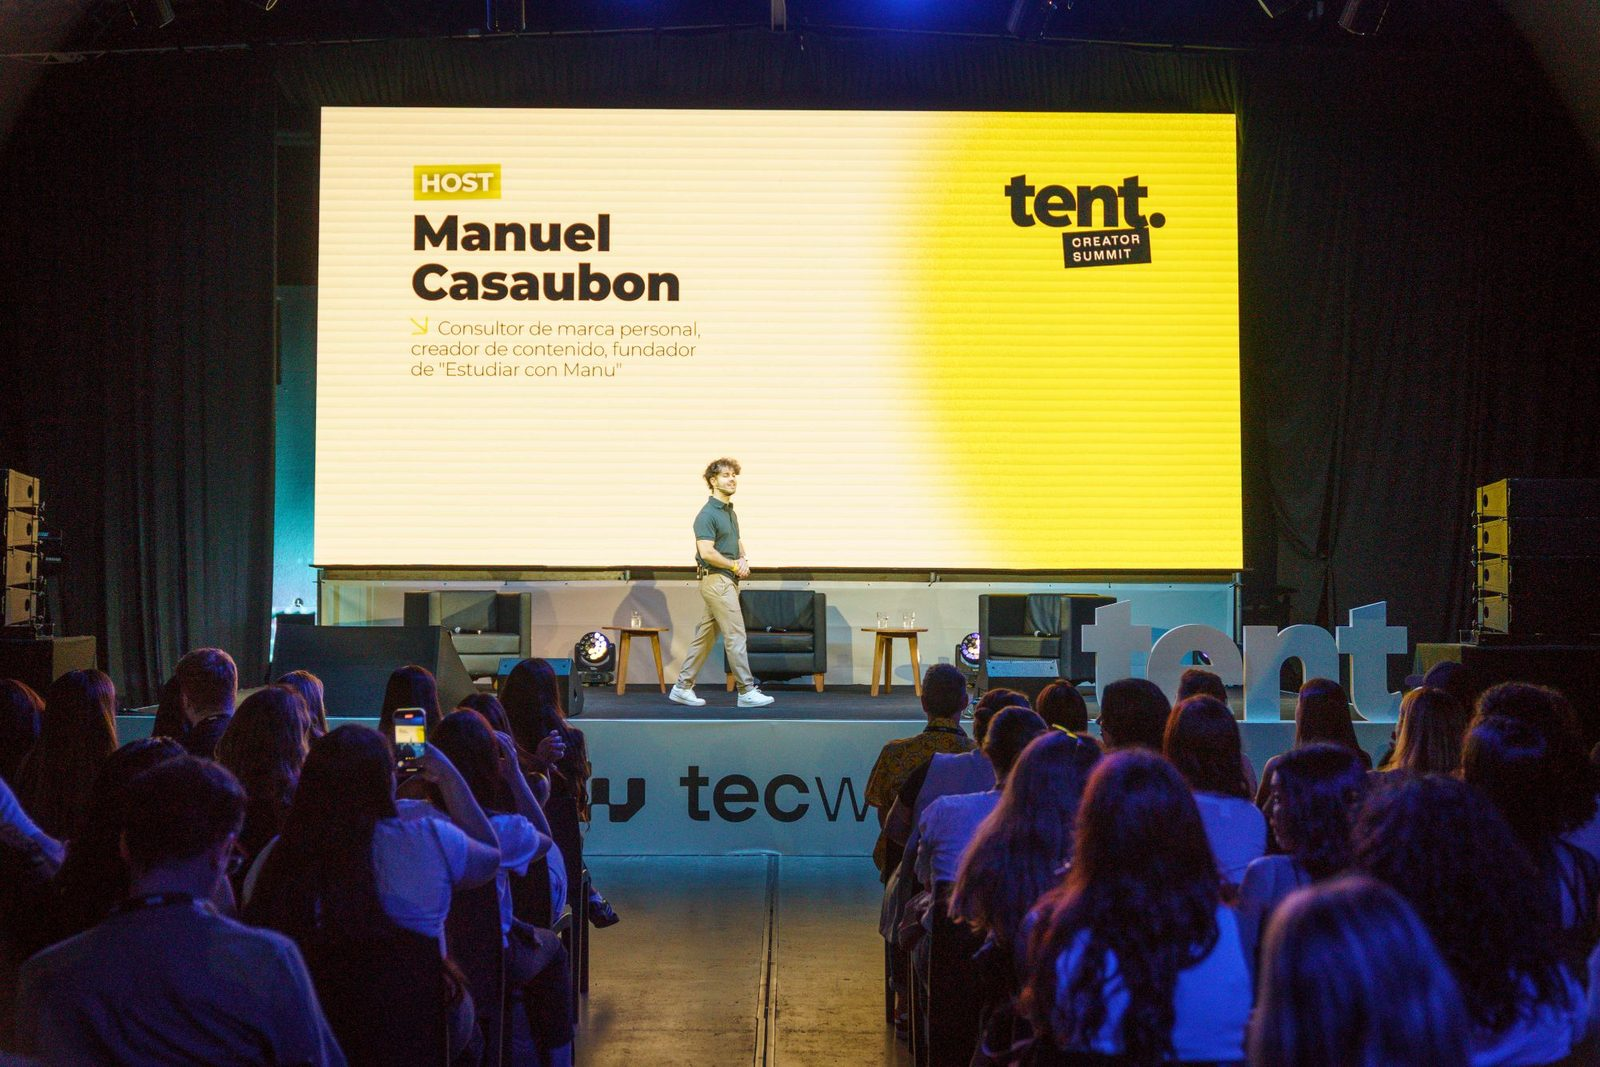
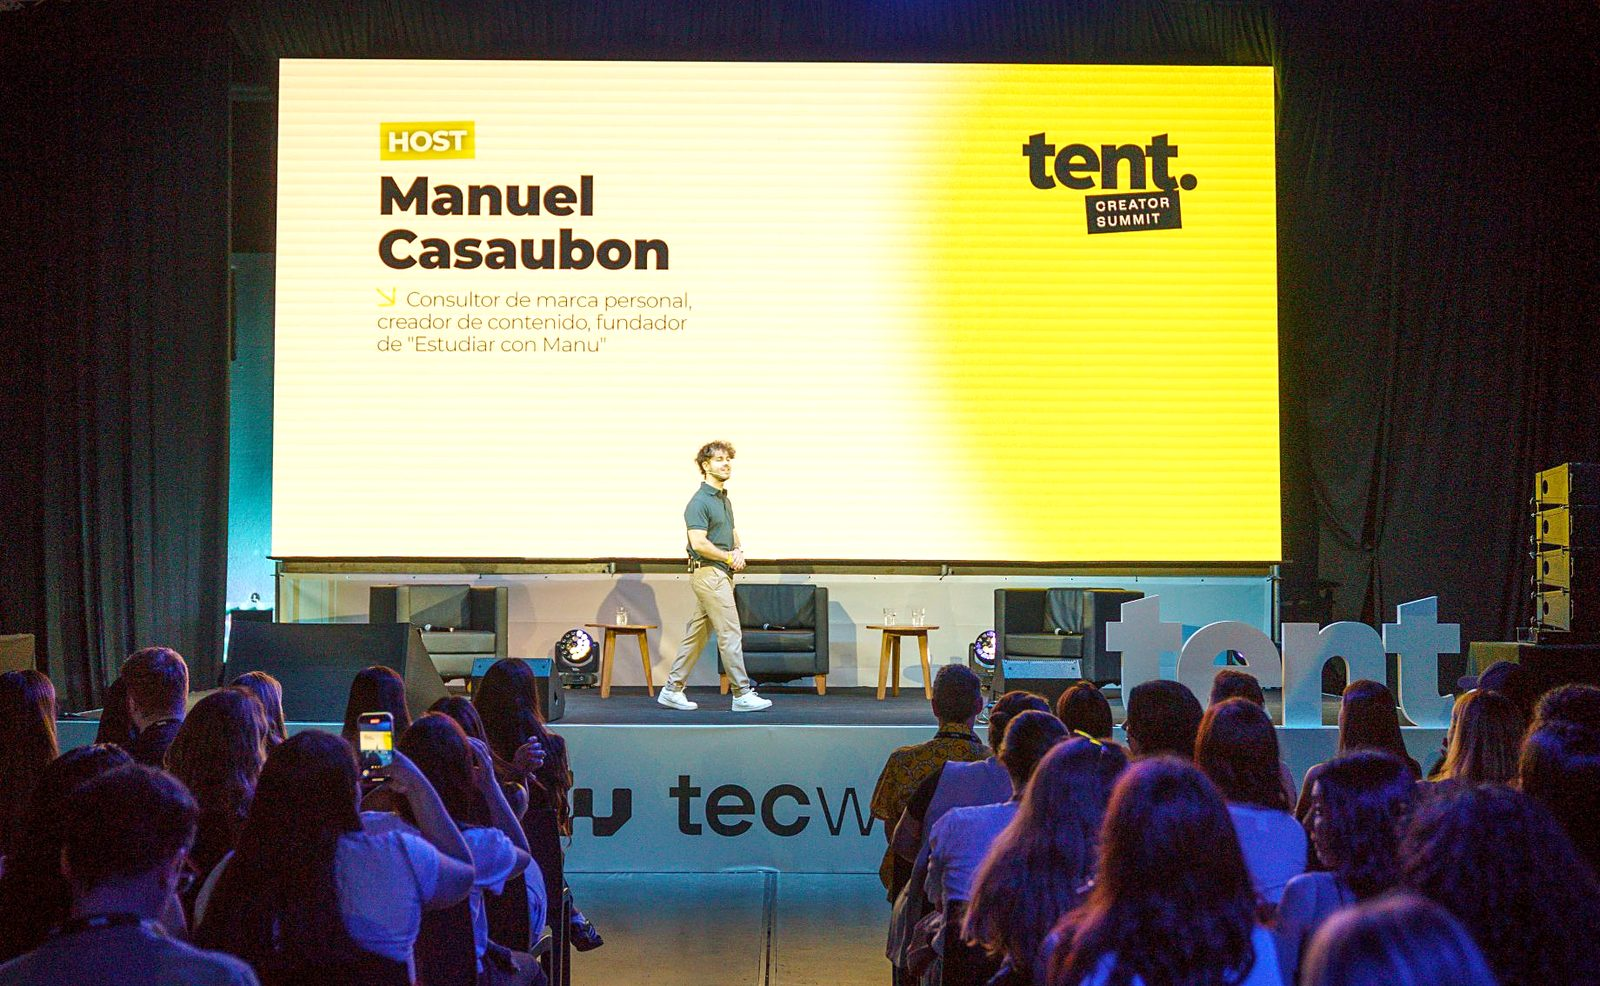
Landing /evento: comentarios de Manu en el boceto
Encabezado y bajada en EB Garamond ("Manuel Casaubon", «a vos» en rojo), texto de qué te falta,
botón de reserva extra, checks y puntos rojos en para quién es, bio y cifras nuevas
(+89.000 IG, 200.000 TikTok, 130.000 YouTube; speaker, conferencista y capacitador),
«Quedan solo 30 lugares» con el 30 tachado y los que quedan, fotos recortadas y con más luz,
WhatsApp e Instagram obligatorios (también en /api/lead) y permiso sin «me puedo dar de baja».

Claude-Session: https://claude.ai/code/session_017CyQKHWzJ9P58ggEyvvFBg

diff --git a/src/components/landing/landing.module.css b/src/components/landing/landing.module.css
@@ -25,13 +25,15 @@
 .crema a:focus-visible, .crema button:focus-visible, .crema summary:focus-visible { outline-color: var(--oscuro); }
 
 .bajada { font-family: var(--serif); font-size: clamp(1.3rem, 3.4vw, 1.7rem); line-height: 1.3; color: var(--mostaza); }
-.marca { font-weight: 800; letter-spacing: -.03em; font-size: 1rem; display: flex; justify-content: space-between; gap: 4px 16px; flex-wrap: wrap; color: var(--gris-o); }
-.marca b { color: var(--crema); font-weight: 800; }
+/* Encabezado: nombre y formato centrados, en EB Garamond (pedido de Manu, 6/11). */
+.marca { font-family: var(--serif); font-weight: 400; font-size: clamp(1.05rem, 3vw, 1.2rem); line-height: 1.25; display: grid; justify-items: center; text-align: center; gap: 2px; color: var(--gris-o); }
+.marca b { color: var(--crema); font-weight: 500; font-size: clamp(1.35rem, 4vw, 1.6rem); letter-spacing: .01em; }
 
 .hero { padding-block-start: clamp(28px, 5vw, 48px); }
 .hero > div { display: grid; gap: clamp(24px, 5vw, 44px); }
-.promesa { font-weight: 800; letter-spacing: -.04em; line-height: 1.1; font-size: clamp(1.4rem, 4.4vw, 2.3rem); color: var(--mostaza); max-width: 22em; text-wrap: balance; margin-top: clamp(14px, 3vw, 24px) !important; }
-.resumen { max-width: 38em; color: var(--gris-o); }
+/* Bajada en EB Garamond blanca, con «a vos» en rojo (pedido de Manu, 6/11). */
+.promesa { font-family: var(--serif); font-weight: 500; letter-spacing: -.01em; line-height: 1.15; font-size: clamp(1.6rem, 5.2vw, 2.6rem); color: var(--crema); max-width: 22em; text-wrap: balance; margin-top: clamp(14px, 3vw, 24px) !important; }
+.resumen { max-width: 34em; color: var(--gris-o); font-family: var(--serif); font-size: clamp(1.15rem, 3.4vw, 1.35rem); line-height: 1.4; }
 /* Título, bajada y resumen centrados (feedback de Manu, 6/11). */
 .centro { text-align: center; justify-self: center; margin-inline: auto; }
 .centro .promesa { margin-inline: auto; }
@@ -105,9 +107,10 @@
 
 .dos { display: grid; grid-template-columns: repeat(2, minmax(0, 1fr)); gap: clamp(28px, 5vw, 56px); margin-top: clamp(24px, 4vw, 36px); }
 .lista { margin: 0; padding: 0; list-style: none; display: grid; gap: 10px; }
-.lista li { padding-left: 1.1em; position: relative; }
-.lista li::before { content: ""; position: absolute; left: 0; top: .62em; width: .45em; height: .45em; background: var(--rojo); }
-.no li::before { background: var(--linea-c); outline: 1px solid var(--gris-c); }
+/* Checks en "Es para vos" y puntos rojos en "No es para vos" (pedido de Manu, 6/11). */
+.lista li { padding-left: 1.7em; position: relative; }
+.lista li::before { content: "✓"; position: absolute; left: 0; top: 0; font-weight: 900; color: var(--rojo); font-size: 1.1em; line-height: 1.4; }
+.no li::before { content: ""; top: .6em; left: .3em; width: .5em; height: .5em; border-radius: 50%; background: var(--rojo); }
 
 .casos { display: grid; grid-template-columns: repeat(3, minmax(0, 1fr)); gap: clamp(20px, 4vw, 36px); margin-top: clamp(24px, 4vw, 36px); }
 .caso { min-width: 0; border-top: 2px solid var(--oscuro); padding-top: 14px; }
@@ -177,8 +180,8 @@
   border-radius: 50%; display: inline-grid; place-items: center; flex: none; transform: rotate(-6deg); }
 .final .paso { justify-content: flex-start; }
 
-.subrayado { position: relative; display: inline-block; white-space: nowrap; color: var(--crema); }
-.subrayado svg { position: absolute; left: -2%; right: -2%; bottom: -.32em; width: 104%; height: .42em; color: var(--rojo); overflow: visible; }
+.subrayado { position: relative; display: inline-block; white-space: nowrap; color: var(--rojo); }
+.subrayado svg { position: absolute; left: -2%; right: -2%; bottom: -.32em; width: 104%; height: .42em; color: var(--mostaza); overflow: visible; }
 @media (prefers-reduced-motion: no-preference) {
   .subrayado path { stroke-dasharray: 260; stroke-dashoffset: 260; animation: trazo .9s .4s ease-out forwards; }
 }
@@ -194,3 +197,11 @@
 .logo { display: inline-flex; align-items: center; height: 40px; flex: none; }
 .logo img { height: 100%; width: auto; max-width: 140px; object-fit: contain; filter: grayscale(1) brightness(1.6); opacity: .75; }
 .logoFalta { display: inline-grid; place-items: center; height: 36px; padding: 0 18px; border: 1.5px dashed var(--linea-o); border-radius: 4px; color: var(--gris-o); font-size: .8rem; font-weight: 600; white-space: nowrap; }
+
+/* Botón extra de reserva en el medio de la página (lleva al formulario y de ahí a Mercado Pago). */
+.ctaMedio { display: flex; justify-content: center; margin-top: clamp(24px, 4vw, 36px); }
+.ctaMedio .boton { min-width: min(100%, 320px); }
+
+/* "Quedan solo 30 lugares": con ventas, el 30 tachado y al lado los que quedan (número real de la base). */
+.tachado { text-decoration: line-through; text-decoration-thickness: .12em; color: var(--gris-o); }
+.restan { color: var(--crema); background: var(--rojo); padding: 0 .3em; border-radius: 3px; }

diff --git a/src/components/landing/Landing.tsx b/src/components/landing/Landing.tsx
@@ -31,7 +31,9 @@ function FotoReal({ foto, que, vertical }: { foto: Foto; que: string; vertical?:
 
 export default function Landing({ cupo, precioArs, agotado }: Props) {
   // Siempre el número real (reglas de comunicación). Sin dato de la base, se dice el total.
-  const quedan = cupo ? Math.max(0, cupo.left_public) : null;
+  // CUPO_BOCETO: solo para la vista previa local (simula lugares vendidos); en producción no está definida.
+  const simulado = process.env.CUPO_BOCETO ? Number(process.env.CUPO_BOCETO) : null;
+  const quedan = cupo ? Math.max(0, cupo.left_public) : simulado;
   const lugares = agotado
     ? "Se agotaron los lugares."
     : quedan !== null && quedan < LUGARES_PUBLICOS
@@ -42,7 +44,7 @@ export default function Landing({ cupo, precioArs, agotado }: Props) {
   return (
     <main className={s.raiz}>
       <section className={`${s.banda} ${s.hero}`} id="inicio-evento"><div>
-        <p className={s.marca}><b>Manu Casaubon</b><span>Clase en vivo presencial en Buenos Aires</span></p>
+        <p className={s.marca}><b>Manuel Casaubon</b><span>Clase en vivo presencial en Buenos Aires</span></p>
         <div className={s.centro}>
           <h1>Cómo destacar con tu marca personal en 2027</h1>
           <p className={s.promesa}>De que nadie te conozca a que te llamen <Subrayado>a vos</Subrayado>.</p>
@@ -63,14 +65,23 @@ export default function Landing({ cupo, precioArs, agotado }: Props) {
             </a>
           </div>
         </div>
-        <p className={s.lugares}>{lugares}</p>
+        <p className={s.lugares}>
+          {agotado ? "Se agotaron los lugares." : quedan !== null && quedan < LUGARES_PUBLICOS
+            ? <>Quedan solo <s className={s.tachado}>{LUGARES_PUBLICOS}</s> <span className={s.restan}>{quedan}</span> lugares.</>
+            : <>Quedan solo {LUGARES_PUBLICOS} lugares.</>}
+        </p>
         <Marcas />
       </div></section>
 
       <section className={`${s.banda} ${s.crema}`}><div>
         <p className={s.frase}>Tenés mucho conocimiento y experiencia, <em>pero pocas personas saben lo que sabés.</em></p>
-        <p className={s.texto}>Lo que te falta es comunicar tu marca de manera genuina y auténtica: con claridad y un plan de comunicación, sabiendo qué lenguaje y qué formatos te quedan mejor en tu caso, y mejorando tu comunicación de impacto.</p>
+        <p className={s.texto}>Lo que te falta es comunicar tu marca de manera genuina y auténtica: con claridad y un plan de comunicación, sabiendo qué tipo de contenido, formato y mejorando tu forma de comunicar (oratoria y storytelling).</p>
         <FotoReal foto={FOTOS.charla} que="dando una charla o una conferencia" />
+        {!agotado && (
+          <div className={s.ctaMedio}>
+            <a className={s.boton} href="#reservar" data-track="medio_reservar">Reservar mi lugar</a>
+          </div>
+        )}
       </div></section>
 
       <section className={s.banda}><div>
@@ -157,8 +168,8 @@ export default function Landing({ cupo, precioArs, agotado }: Props) {
         <h2>Quién la da</h2>
         <div className={s.quien}>
         <div className={s.bio}>
-          <p>Soy Manu Casaubon. Trabajo con personas que tienen algo importante para decir, para que aprendan a comunicarlo siendo ellas mismas, sin armar un personaje.</p>
-          <p>Tengo más de 200.000 seguidores en TikTok y más de 100.000 en YouTube. Soy speaker y conferencista en universidades y eventos.</p>
+          <p>Soy Manu Casaubon. Acompaño a personas que tienen algo importante para decir a aprender a comunicarlo al mundo, logrando alcanzar nuevas oportunidades (ventas, charlas, medios, etc.).</p>
+          <p>Tengo más de 89.000 seguidores en Instagram, 200.000 en TikTok y 130.000 en YouTube. Soy speaker, conferencista y capacitador en universidades, empresas y eventos.</p>
         </div>
         <FotoReal foto={FOTOS.quien} que="en un escenario o retrato" vertical />
         </div>

diff --git a/src/components/form/reglas.ts b/src/components/form/reglas.ts
@@ -1,7 +1,7 @@
 // Reglas del formulario, compartidas por el componente (validación en línea) y por /api/lead (zod).
 // Sin dependencias, para no sumar peso a la landing.
 
-export const CONSENT_TEXT = "Quiero recibir mails sobre la clase. Me puedo dar de baja cuando quiera.";
+export const CONSENT_TEXT = "Quiero recibir mails sobre la clase.";
 
 export const LIMITES = { email: 254, nombre: 80, telefono: 24, marca: 200, objetivo: 500 } as const;
 
@@ -18,8 +18,8 @@ export type CodigoError = "required" | "invalid" | "too_long";
 export const MENSAJES: Record<Campo, Partial<Record<CodigoError, string>>> = {
   email: { required: "Escribí tu mail.", invalid: "Revisá el mail: falta algo (por ejemplo, nombre@gmail.com).", too_long: "El mail es demasiado largo." },
   nombre: { required: "Escribí tu nombre.", too_long: "El nombre es demasiado largo." },
-  telefono: { invalid: "Usá solo números, espacios y el + del código de país.", too_long: "El número es demasiado largo." },
-  marca: { invalid: "Escribí tu usuario de Instagram (@tuusuario) o la dirección de tu web.", too_long: "Es demasiado largo." },
+  telefono: { required: "Escribí tu WhatsApp.", invalid: "Usá solo números, espacios y el + del código de país.", too_long: "El número es demasiado largo." },
+  marca: { required: "Escribí tu Instagram o la web de tu marca.", invalid: "Escribí tu usuario de Instagram (@tuusuario) o la dirección de tu web.", too_long: "Es demasiado largo." },
   objetivo: { too_long: "Es un poco largo: resumilo en hasta 500 caracteres." },
   consentimiento: {},
 };

diff --git a/src/components/landing/contenido.ts b/src/components/landing/contenido.ts
@@ -17,8 +17,8 @@ export const formatoArs = (n: number) => `ARS ${n.toLocaleString("es-AR", { maxi
  *  Sin archivo, el lugar no se muestra. Con FOTOS_BOCETO=1 (solo para el boceto) se ve un recuadro con lo que va. */
 export type Foto = { src: string; alt: string; ancho: number; alto: number } | null;
 export const FOTOS: { charla: Foto; clase: Foto; quien: Foto } = {
-  charla: { src: "/fotos/manu-tent.jpg", alt: "Manu Casaubon como host en el escenario de tent. Creator Summit, frente al público", ancho: 1600, alto: 1067 },
-  clase: { src: "/fotos/manu-clase.jpg", alt: "Manu Casaubon de espaldas, dando una clase a un grupo sentado alrededor de una mesa", ancho: 1600, alto: 1200 },
+  charla: { src: "/fotos/manu-tent.jpg", alt: "Manu Casaubon como host en el escenario de tent. Creator Summit, frente al público", ancho: 1600, alto: 986 },
+  clase: { src: "/fotos/manu-clase.jpg", alt: "Manu Casaubon de espaldas, dando una clase a un grupo sentado alrededor de una mesa", ancho: 1600, alto: 1002 },
   quien: { src: "/fotos/manu-escenario.jpg", alt: "Manu Casaubon dando una charla en un escenario, con micrófono y presentador en la mano", ancho: 1000, alto: 1500 },
 };
 

diff --git a/src/components/form/FormularioReserva.tsx b/src/components/form/FormularioReserva.tsx
@@ -28,8 +28,9 @@ const VACIO: Valores = { email: "", nombre: "", telefono: "", marca: "", objetiv
 
 // Campos de cada pantalla, en orden. Los obligatorios llevan true.
 const PANTALLAS: Record<Variante, [Campo, boolean][][]> = {
-  "un-paso": [[["nombre", true], ["email", true], ["telefono", false], ["marca", false]]],
-  "dos-pasos": [[["email", true]], [["nombre", true], ["marca", false], ["objetivo", false]]],
+  // WhatsApp e Instagram son obligatorios (pedido de Manu, 6/11).
+  "un-paso": [[["nombre", true], ["email", true], ["telefono", true], ["marca", true]]],
+  "dos-pasos": [[["email", true]], [["nombre", true], ["telefono", true], ["marca", true], ["objetivo", false]]],
 };
 
 const SERVIDOR: Record<string, string> = {

diff --git a/src/app/api/lead/route.ts b/src/app/api/lead/route.ts
@@ -30,6 +30,9 @@ const Lead = z.object({
   website: z.string().optional(),
 }).superRefine((d, ctx) => {
   if (d.paso === "final" && !d.nombre) ctx.addIssue({ code: "custom", path: ["nombre"], message: "required" });
+  // WhatsApp e Instagram (o web) obligatorios en el envío final (pedido de Manu, 6/11).
+  if (d.paso === "final" && !d.telefono) ctx.addIssue({ code: "custom", path: ["telefono"], message: "required" });
+  if (d.paso === "final" && !d.marca) ctx.addIssue({ code: "custom", path: ["marca"], message: "required" });
 });
 
 // Límite simple: 5 envíos por minuto por vid (en memoria de la instancia; alcanza contra el abuso casual).
